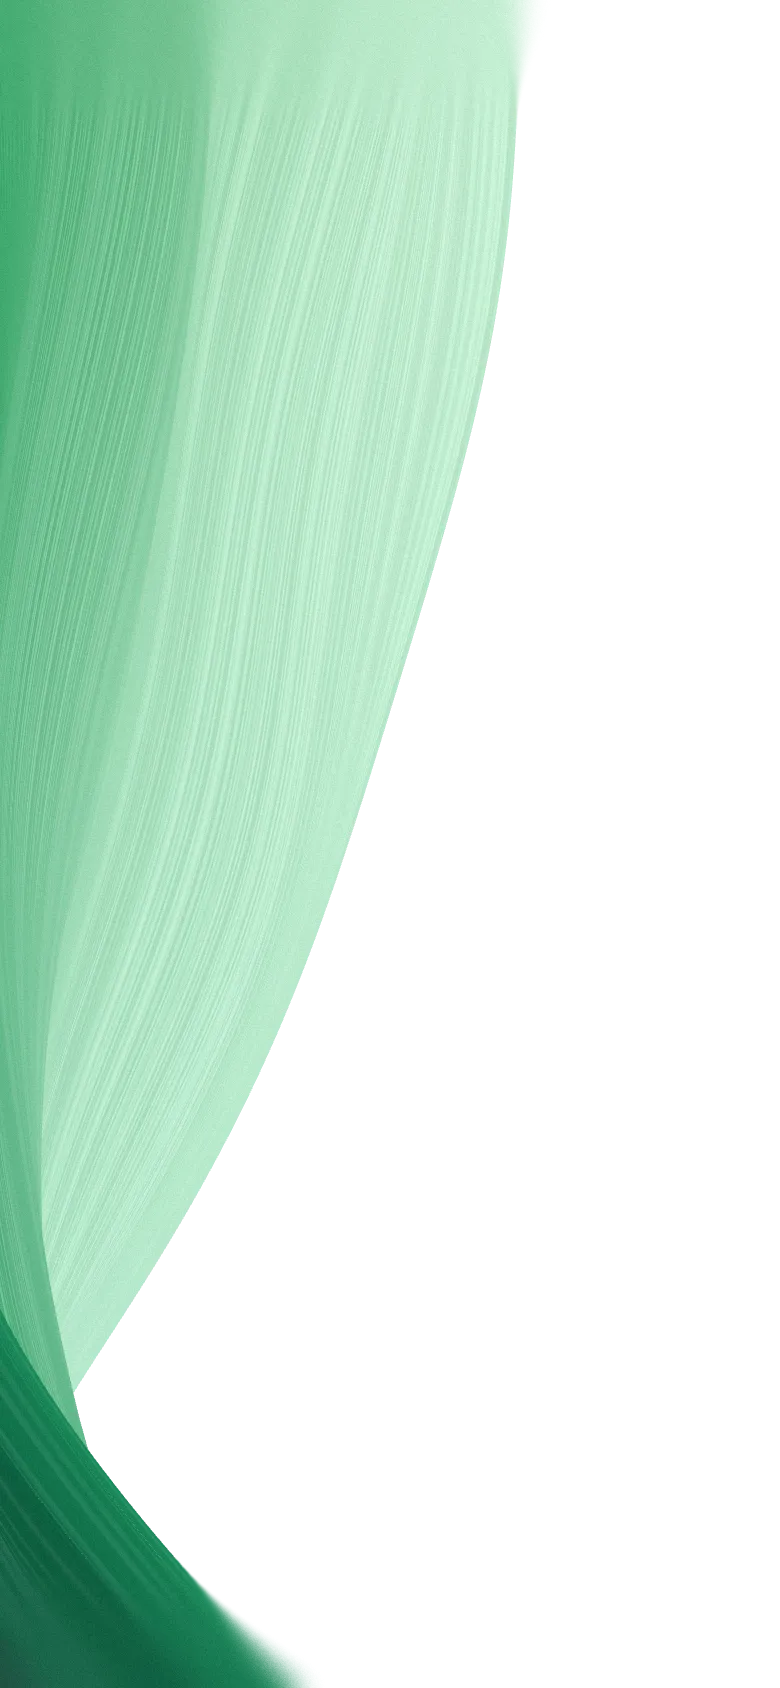
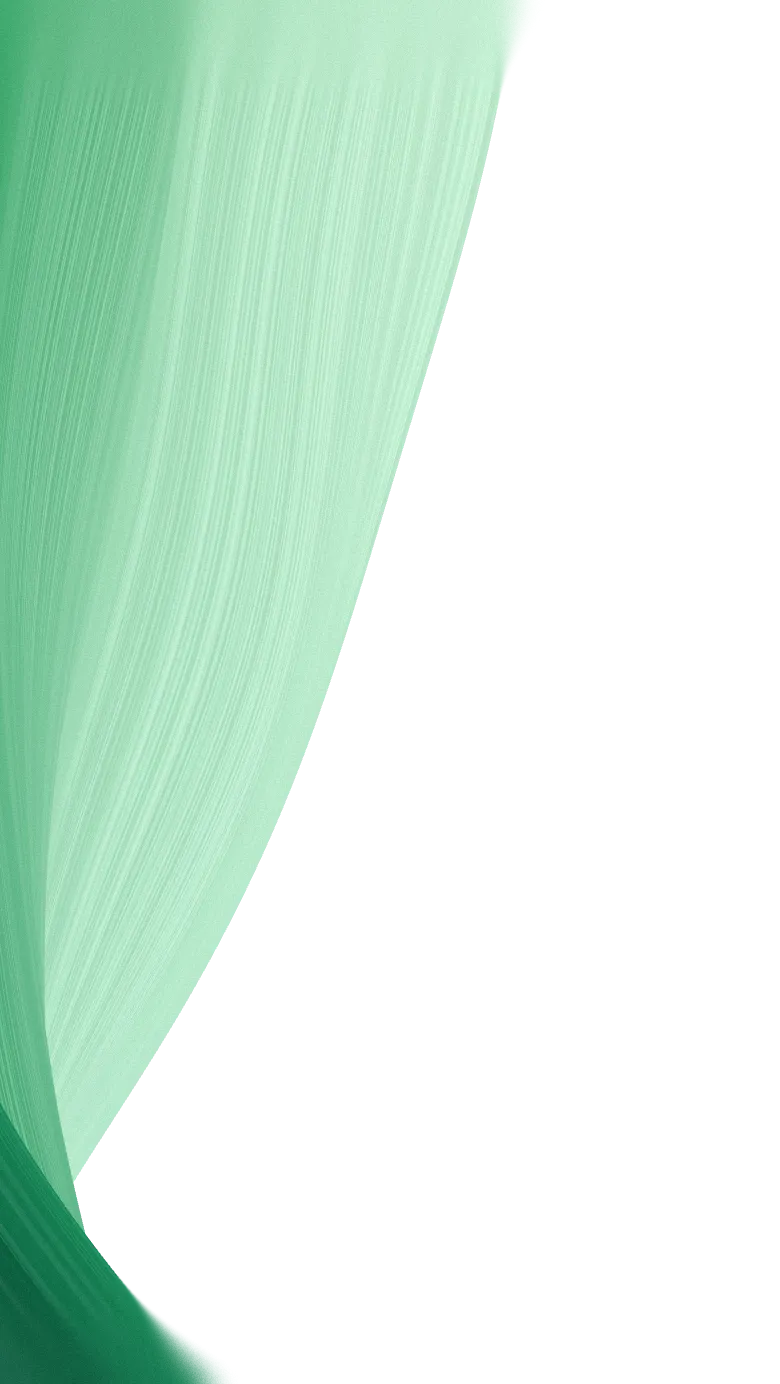
Golf-hero: 82% hoogte met balk onderin (reviews en diensten)
De golf loopt zacht achter een doorschijnende balk door en stopt strak aan de
onderrand. Sterren naar de balk, rechts vier dienstenlinks. Terugvalbeelden op
de nieuwe heromaat (1600 x 738 en 390 x 692).

diff --git a/src/components/GolfHero.tsx b/src/components/GolfHero.tsx
@@ -21,6 +21,14 @@ import terugvalMobiel from "@/assets/hero/golf-mobiel.webp";
  * - De engine wordt pas na de eerste paint geladen, zodat hij niet in de
  *   hoofdbundel zit en de tekst (LCP) niet ophoudt.
  */
+// Diensten in de balk onderin de hero (bestaande pagina's, zie ook de footer).
+const DIENSTEN = [
+  { label: "Website op maat", to: "/diensten/website-op-maat" },
+  { label: "Webshops", to: "/diensten/webshops" },
+  { label: "E-commerce", to: "/diensten/e-commerce" },
+  { label: "SEO", to: "/seo-enkhuizen" },
+];
+
 const GolfHero = () => {
   const heroRef = useRef<HTMLElement>(null);
   const vlakRef = useRef<HTMLDivElement>(null);
@@ -95,7 +103,7 @@ const GolfHero = () => {
   return (
     <section
       ref={heroRef}
-      className={`golf-hero${golfHero.opstelling.spiegel ? " golf-hero--gespiegeld" : ""} sw-ink sw-hero-anim relative isolate flex min-h-[100svh] flex-col justify-start md:justify-center overflow-hidden bg-background pt-[calc(var(--header-height)_+_1.5rem)] md:pt-[calc(var(--header-height)_+_1rem)] pb-16`}
+      className={`golf-hero${golfHero.opstelling.spiegel ? " golf-hero--gespiegeld" : ""} sw-ink sw-hero-anim relative isolate flex min-h-[82svh] flex-col overflow-hidden bg-background`}
     >
       <picture className="golf-hero__terugval" aria-hidden="true">
         <source
@@ -111,99 +119,120 @@ const GolfHero = () => {
       </picture>
       <div ref={vlakRef} className="golf-hero__vlak" />
 
-      <div className="relative container mx-auto px-4 sm:px-6">
-        <div className="golf-hero__blok">
-          <div className="golf-hero__stapel">
-            <div
-              className="golf-hero__titel golf-hero__titel--onder"
-              aria-hidden="true"
-            >
-              <span className="sw-mask">
-                <span className="sw-line-inner">Webdesignbureau</span>
-              </span>
-              <span className="sw-mask">
-                <span className="sw-line-inner">
-                  in <em>Enkhuizen</em>
-                </span>
-              </span>
-            </div>
-            <h1 className="golf-hero__titel golf-hero__titel--boven">
-              <span className="sw-mask">
-                <span className="sw-line-inner">Webdesignbureau</span>
-              </span>{" "}
-              <span className="sw-mask">
-                <span className="sw-line-inner">
-                  in <em>Enkhuizen</em>
-                </span>
-              </span>
-            </h1>
-          </div>
-
-          <div className="golf-hero__rest">
-            <p
-              className="sw-lead mt-5 max-w-[34rem] text-base md:text-lg leading-relaxed"
-              style={
-                {
-                  color: "hsl(var(--sw-ink) / 0.7)",
-                  "--sw-delay": "0.32s",
-                } as CSSProperties
-              }
-            >
-              Nieuwblik ontwerpt en bouwt websites en webshops die opvallen,
-              razendsnel laden en goed vindbaar zijn, van eerste schets tot
-              livegang. Vanuit{" "}
-              <Link
-                to="/website-laten-maken-enkhuizen"
-                className="underline decoration-[hsl(var(--sw-ink)/0.3)] underline-offset-4 transition-colors hover:text-[hsl(var(--sw-green))] hover:decoration-[hsl(var(--sw-green))]"
+      <div className="golf-hero__inhoud relative flex flex-1 flex-col justify-start md:justify-center pt-[calc(var(--header-height)_+_1.5rem)] md:pt-[var(--header-height)] pb-12 md:pb-16">
+        <div className="container mx-auto px-4 sm:px-6">
+          <div className="golf-hero__blok">
+            <div className="golf-hero__stapel">
+              <div
+                className="golf-hero__titel golf-hero__titel--onder"
+                aria-hidden="true"
               >
-                Enkhuizen
-              </Link>{" "}
-              voor ondernemers door heel Nederland.
-            </p>
-
-            <div
-              className="sw-cta mt-7 flex flex-col sm:flex-row items-stretch sm:items-center gap-3"
-              style={{ "--sw-delay": "0.5s" } as CSSProperties}
-            >
-              <AnimatedButton to="/contact" className="h-12 w-full sm:w-auto">
-                Start je project
-              </AnimatedButton>
-              <AnimatedButton
-                to="/portfolio"
-                variant="outline"
-                className="h-12 w-full sm:w-auto"
-              >
-                Ontdek portfolio
-              </AnimatedButton>
-            </div>
-
-            <div
-              className="sw-cta mt-6 flex flex-wrap items-center gap-2.5"
-              style={{ "--sw-delay": "0.6s" } as CSSProperties}
-            >
-              <div className="flex items-center gap-1">
-                {[...Array(5)].map((_, i) => (
-                  <Star
-                    key={i}
-                    className="w-4 h-4"
-                    style={{
-                      fill: "hsl(var(--sw-green))",
-                      color: "hsl(var(--sw-green))",
-                    }}
-                  />
-                ))}
+                <span className="sw-mask">
+                  <span className="sw-line-inner">Webdesignbureau</span>
+                </span>
+                <span className="sw-mask">
+                  <span className="sw-line-inner">
+                    in <em>Enkhuizen</em>
+                  </span>
+                </span>
               </div>
-              <span
-                className="text-sm"
-                style={{ color: "hsl(var(--sw-ink) / 0.8)" }}
-              >
-                {REVIEWS.scoreLabel} op Google,{" "}
-                <span style={{ color: "hsl(var(--sw-ink) / 0.62)" }}>
-                  op basis van {REVIEWS.aantalLabel} reviews
+              <h1 className="golf-hero__titel golf-hero__titel--boven">
+                <span className="sw-mask">
+                  <span className="sw-line-inner">Webdesignbureau</span>
+                </span>{" "}
+                <span className="sw-mask">
+                  <span className="sw-line-inner">
+                    in <em>Enkhuizen</em>
+                  </span>
                 </span>
-              </span>
+              </h1>
+            </div>
+
+            <div className="golf-hero__rest">
+              <p
+                className="sw-lead mt-5 max-w-[34rem] text-base md:text-lg leading-relaxed"
+                style={
+                  {
+                    color: "hsl(var(--sw-ink) / 0.7)",
+                    "--sw-delay": "0.32s",
+                  } as CSSProperties
+                }
+              >
+                Nieuwblik ontwerpt en bouwt websites en webshops die opvallen,
+                razendsnel laden en goed vindbaar zijn, van eerste schets tot
+                livegang. Vanuit{" "}
+                <Link
+                  to="/website-laten-maken-enkhuizen"
+                  className="underline decoration-[hsl(var(--sw-ink)/0.3)] underline-offset-4 transition-colors hover:text-[hsl(var(--sw-green))] hover:decoration-[hsl(var(--sw-green))]"
+                >
+                  Enkhuizen
+                </Link>{" "}
+                voor ondernemers door heel Nederland.
+              </p>
+
+              <div
+                className="sw-cta mt-7 flex flex-col sm:flex-row items-stretch sm:items-center gap-3"
+                style={{ "--sw-delay": "0.5s" } as CSSProperties}
+              >
+                <AnimatedButton to="/contact" className="h-12 w-full sm:w-auto">
+                  Start je project
+                </AnimatedButton>
+                <AnimatedButton
+                  to="/portfolio"
+                  variant="outline"
+                  className="h-12 w-full sm:w-auto"
+                >
+                  Ontdek portfolio
+                </AnimatedButton>
+              </div>
             </div>
           </div>
+        </div>
+      </div>
+
+      {/* Balk onderin, zoals de logobalk bij Stripe: de golf loopt er (zacht
+          vervaagd) achter door en stopt strak aan de onderrand. Reviews links,
+          diensten rechts als echte links. */}
+      <div
+        className="golf-hero__balk sw-cta"
+        style={{ "--sw-delay": "0.6s" } as CSSProperties}
+      >
+        <div className="container mx-auto flex flex-col gap-3 px-4 py-4 sm:px-6 md:flex-row md:items-center md:justify-between md:gap-8 md:py-0">
+          <Link
+            to="/reviews"
+            className="group flex shrink-0 items-center gap-2.5"
+          >
+            <span className="flex items-center gap-1" aria-hidden="true">
+              {[...Array(5)].map((_, i) => (
+                <Star
+                  key={i}
+                  className="h-4 w-4"
+                  style={{
+                    fill: "hsl(var(--sw-green))",
+                    color: "hsl(var(--sw-green))",
+                  }}
+                />
+              ))}
+            </span>
+            <span
+              className="text-sm transition-colors group-hover:text-[hsl(var(--sw-green))]"
+              style={{ color: "hsl(var(--sw-ink) / 0.8)" }}
+            >
+              {REVIEWS.scoreLabel} op Google,{" "}
+              <span style={{ color: "hsl(var(--sw-ink) / 0.62)" }}>
+                op basis van {REVIEWS.aantalLabel} reviews
+              </span>
+            </span>
+          </Link>
+          <nav aria-label="Diensten" className="golf-hero__diensten">
+            <ul>
+              {DIENSTEN.map((d) => (
+                <li key={d.to}>
+                  <Link to={d.to}>{d.label}</Link>
+                </li>
+              ))}
+            </ul>
+          </nav>
         </div>
       </div>
     </section>

diff --git a/src/data/golfHero.ts b/src/data/golfHero.ts
@@ -1,13 +1,18 @@
 import type { GolfInstellingen } from "@/components/golf/golfMotor";
 
-// Instellingen van de golf in de homepage-hero, afgesteld in het prototype
-// (_prototypes/hero-golf, vakje 1: Stripe-vorm, sjabloon Smaragd donker, gespiegeld).
-// Nieuwe instellingen: in het prototype "Kopieer instellingen" en hier plakken
-// (zonder kleurBron), en de terugvalbeelden in src/assets/hero opnieuw maken
-// (desktop 1600 x 900, mobiel 390 x 844 op 2x, via window.golf in het prototype).
+// Instellingen van de golf in de homepage-hero, opgeslagen met het afstelpaneel
+// (toets p in de ontwikkelomgeving, knop "Opslaan in site"). Die knop maakt ook de
+// terugvalbeelden in src/assets/hero opnieuw (hero op 1600 x 900 en 390 x 844).
 export const golfHero: GolfInstellingen = {
-  opstelling: { spiegel: true, adem: false, muis: false },
-  beweging: { ademKracht: 1, muisKracht: 1 },
+  opstelling: {
+    spiegel: true,
+    adem: false,
+    muis: false,
+  },
+  beweging: {
+    ademKracht: 1,
+    muisKracht: 1,
+  },
   vorm: {
     twistX: -0.65,
     twistKrachtX: 3.63,
@@ -33,8 +38,18 @@ export const golfHero: GolfInstellingen = {
     verschuiven: 12,
     inzoomen: 0.12,
   },
-  desktop: { posX: 14.5, posY: 0, schaal: 0.94, rotatie: 12 },
-  mobiel: { posX: -13, posY: 16.5, schaal: 2.45, rotatie: 27.5 },
+  desktop: {
+    posX: 14.5,
+    posY: 0,
+    schaal: 0.94,
+    rotatie: 12,
+  },
+  mobiel: {
+    posX: -13,
+    posY: 16.5,
+    schaal: 2.45,
+    rotatie: 27.5,
+  },
   kleuren: {
     voorRand: ["#9fd9bd", "#aadec0", "#b5e2c4"],
     voorVouw: ["#178f63", "#1d945f", "#23995a"],

diff --git a/src/styles.css b/src/styles.css
@@ -541,6 +541,49 @@
 .golf-hero__titel--boven { position: relative; z-index: 3; color: hsl(var(--sw-green)); mix-blend-mode: multiply; }
 .golf-hero__rest { position: relative; z-index: 3; }
 
+/* Balk onderin de hero: haarlijnen boven en onder, licht doorschijnend zodat de
+   golf er zacht achter doorloopt en tekst op het donkere deel leesbaar blijft. */
+.golf-hero__balk {
+  position: relative;
+  z-index: 3;
+  border-top: 1px solid hsl(var(--sw-rule) / 0.1);
+  border-bottom: 1px solid hsl(var(--sw-rule) / 0.1);
+  background: hsl(var(--background) / 0.74);
+  -webkit-backdrop-filter: blur(16px) saturate(1.2);
+  backdrop-filter: blur(16px) saturate(1.2);
+}
+@media (min-width: 768px) {
+  .golf-hero__balk > .container { min-height: 76px; }
+}
+.golf-hero__diensten ul {
+  display: flex;
+  gap: 0.5rem 2.25rem;
+  margin: 0;
+  padding: 0;
+  list-style: none;
+  overflow-x: auto;
+  scrollbar-width: none;
+}
+.golf-hero__diensten ul::-webkit-scrollbar { display: none; }
+.golf-hero__diensten li { flex: none; }
+.golf-hero__diensten a {
+  font-size: 0.95rem;
+  font-weight: 500;
+  white-space: nowrap;
+  color: hsl(var(--sw-ink) / 0.78);
+  text-decoration: underline;
+  text-decoration-color: transparent;
+  text-underline-offset: 5px;
+  transition: color 0.2s, text-decoration-color 0.2s;
+}
+.golf-hero__diensten a:hover {
+  color: hsl(var(--sw-green));
+  text-decoration-color: hsl(var(--sw-green) / 0.4);
+}
+@media (max-width: 767px) {
+  .golf-hero__diensten ul { gap: 1.5rem; }
+}
+
 /* Section index marker (huge faint number behind section headers) */
 .sw-index {
   font-weight: 700;

diff --git a/src/components/golf/golfPaneel.ts b/src/components/golf/golfPaneel.ts
@@ -1474,10 +1474,11 @@ export function startPaneel({ motor, hero, site }: Opties): () => void {
     knop.disabled = true;
     knop.textContent = "Bezig met opslaan";
     try {
-      // Terugvalbeelden op dezelfde maten als eerder: desktop 1600 x 900, mobiel 390 x 844 op 2x.
+      // Terugvalbeelden op de maat van de hero (82% van de schermhoogte): desktop 1600 x 738
+      // (scherm 1600 x 900), mobiel 390 x 692 (scherm 390 x 844) op 2x.
       const [desktop, mobiel] = await Promise.all([
-        terugvalbeeld(1600, 900, 1, 0.82),
-        terugvalbeeld(390, 844, 2, 0.8),
+        terugvalbeeld(1600, 738, 1, 0.82),
+        terugvalbeeld(390, 692, 2, 0.8),
       ]);
       const r = await fetch("/__golf/site", {
         method: "POST",

diff --git a/scripts/vite-golf-afstellen.ts b/scripts/vite-golf-afstellen.ts
@@ -71,7 +71,7 @@ export function golfAfstellen(): Plugin {
 
 // Instellingen van de golf in de homepage-hero, opgeslagen met het afstelpaneel
 // (toets p in de ontwikkelomgeving, knop "Opslaan in site"). Die knop maakt ook de
-// terugvalbeelden in src/assets/hero opnieuw (desktop 1600 x 900, mobiel 390 x 844).
+// terugvalbeelden in src/assets/hero opnieuw (hero op 1600 x 900 en 390 x 844).
 export const golfHero: GolfInstellingen = ${JSON.stringify(instellingen, null, 2)};
 `;
             const prettier = await import("prettier");

diff --git a/src/components/golf/golfPaneel.css b/src/components/golf/golfPaneel.css
@@ -801,7 +801,8 @@
   outline: none;
   box-shadow: 0 0 0 4px rgba(204, 120, 92, 0.22);
 }
-.golf-zonder-tekst .golf-hero > .container,
+.golf-zonder-tekst .golf-hero__inhoud,
+.golf-zonder-tekst .golf-hero__balk,
 .golf-zonder-tekst header {
   opacity: 0;
   transition: opacity 0.3s;
